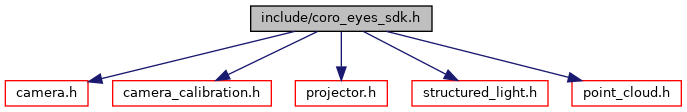
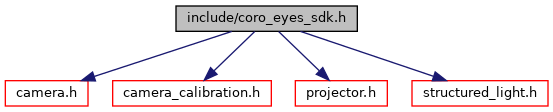
Removed point_cloud module, updated doc and README.md.
Post-processing of point clouds will be excluded from this project.

diff --git a/include/coro_eyes_sdk.h b/include/coro_eyes_sdk.h
@@ -10,6 +10,5 @@
 #include "camera_calibration.h"
 #include "projector.h"
 #include "structured_light.h"
-#include "point_cloud.h"
 
 #endif // _CORO_EYES_SDK_H

diff --git a/README.md b/README.md
@@ -26,13 +26,10 @@ The coro_eyes_sdk has been tested on Ubuntu 20.04 with the following dependency 
 | libusb | 1.0.23 |
 | udev | 245.4 |
 | FlyCapture SDK | 2.13.3.31 |
-| Open3D | 0.13.0 |
 
 ## Installation
 
-### Building from source
-
-#### Dependencies
+### Dependencies
 - [OpenCV](https://opencv.org/)
 
       sudo apt install libopencv-dev
@@ -52,31 +49,15 @@ The coro_eyes_sdk has been tested on Ubuntu 20.04 with the following dependency 
 - [FlyCapture SDK](https://www.flir.ca/products/flycapture-sdk/)<br />
     [<b>Download here</b>](https://flir.app.boxcn.net/v/Flycapture2SDK/folder/72274730742).
     The version for Ubuntu 18.04 works on Ubuntu 20.04.<br />
-    Follow instructions [<b>here</b>](https://www.flir.ca/support-center/iis/machine-vision/application-note/getting-started-with-flycapture-2.x-and-linux/).
-    
-- [Open3D](http://www.open3d.org/)
+    Follow instructions [<b>here</b>](https://www.flir.ca/support-center/iis/machine-vision/application-note/getting-started-with-flycapture-2.x-and-linux/).           
 
-    1. Make sure you have CMake 3.18+ (<b>`cmake --version`</b>) and upgrade if necessary following these [instructions](https://apt.kitware.com/).
+### Building from source
 
-    2. Clone the repository in the location of your choice:
-    
-           git clone --recursive --depth 1 --branch v0.13.0 https://github.com/isl-org/Open3D.git
-           
-    3. Update the submodules:
-    
-           cd Open3D/
-           git submodule update --init --recursive
-           
-    4. Install the dependencies:
-    
-           util/install_deps_ubuntu.sh
-           
-    5. Build and install the library (optional - you can change the PYTHON_EXECUTABLE variable for a virtual environment):
-    
-           mkdir build
-           cd build/
-           cmake -DBUILD_SHARED_LIBS=ON -DGLIBCXX_USE_CXX11_ABI=1 -DPYTHON_EXECUTABLE=/usr/bin/python3 ..
-           sudo cmake --build . --config Release --parallel 12 --target install
+    git clone https://github.com/alexandre-bernier/coro_eyes_sdk.git
+    mkdir build
+    cd build/
+    cmake ..
+    sudo cmake --build . --config Release --target install
     
 ### udev rules
 
@@ -100,16 +81,15 @@ To verify that the script worked, restart your computer and run the following co
 
 Simply include coro_eyes_sdk.h in your code to get access to all the APIs.
 
-### Library
+### Documentation
 
-You will need to build coro_eyes_sdk library and link it in your project.
+Once you built the library (and if you have Doxygen installed), you will find the documentation at `doc/html/index.html`.
 
 ## Examples
 
-You can find multiple examples on how to use this SDK in the examples/ directory:
+You can find multiple examples on how to use this SDK in the `examples/` directory:
 
 - examples/projector_example.cpp
 - examples/camera_example.cpp
 - examples/camera_calibration_example.cpp
 - examples/structured_light_example.cpp
-- examples/point_cloud_example.cpp
